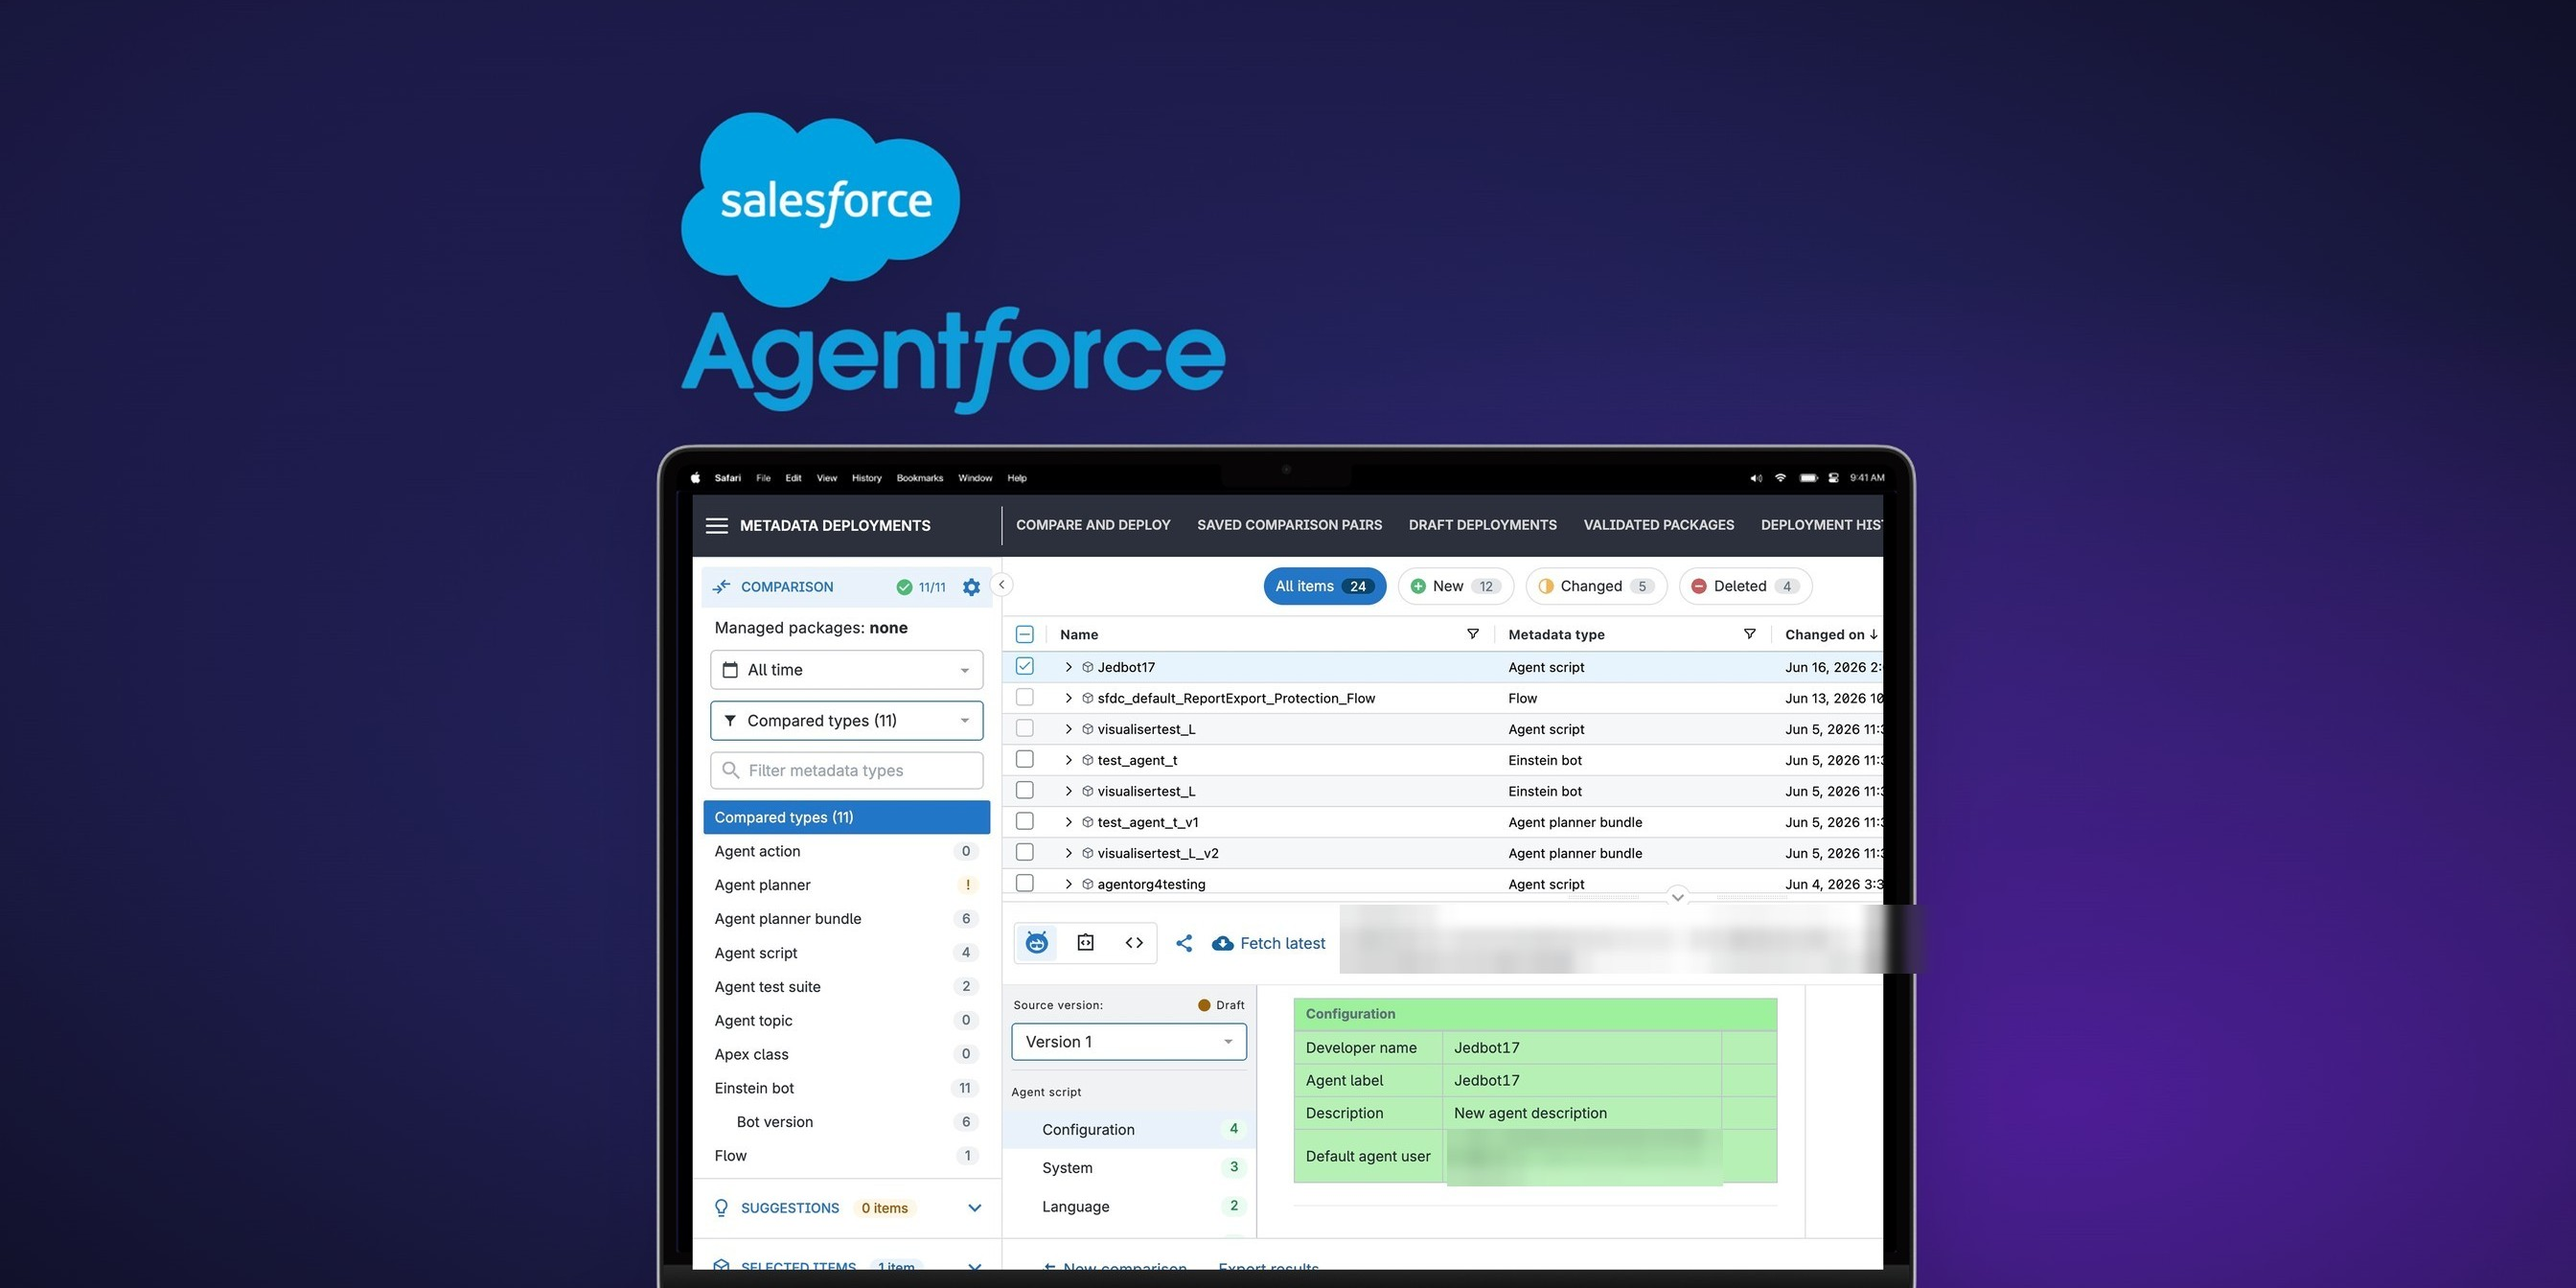
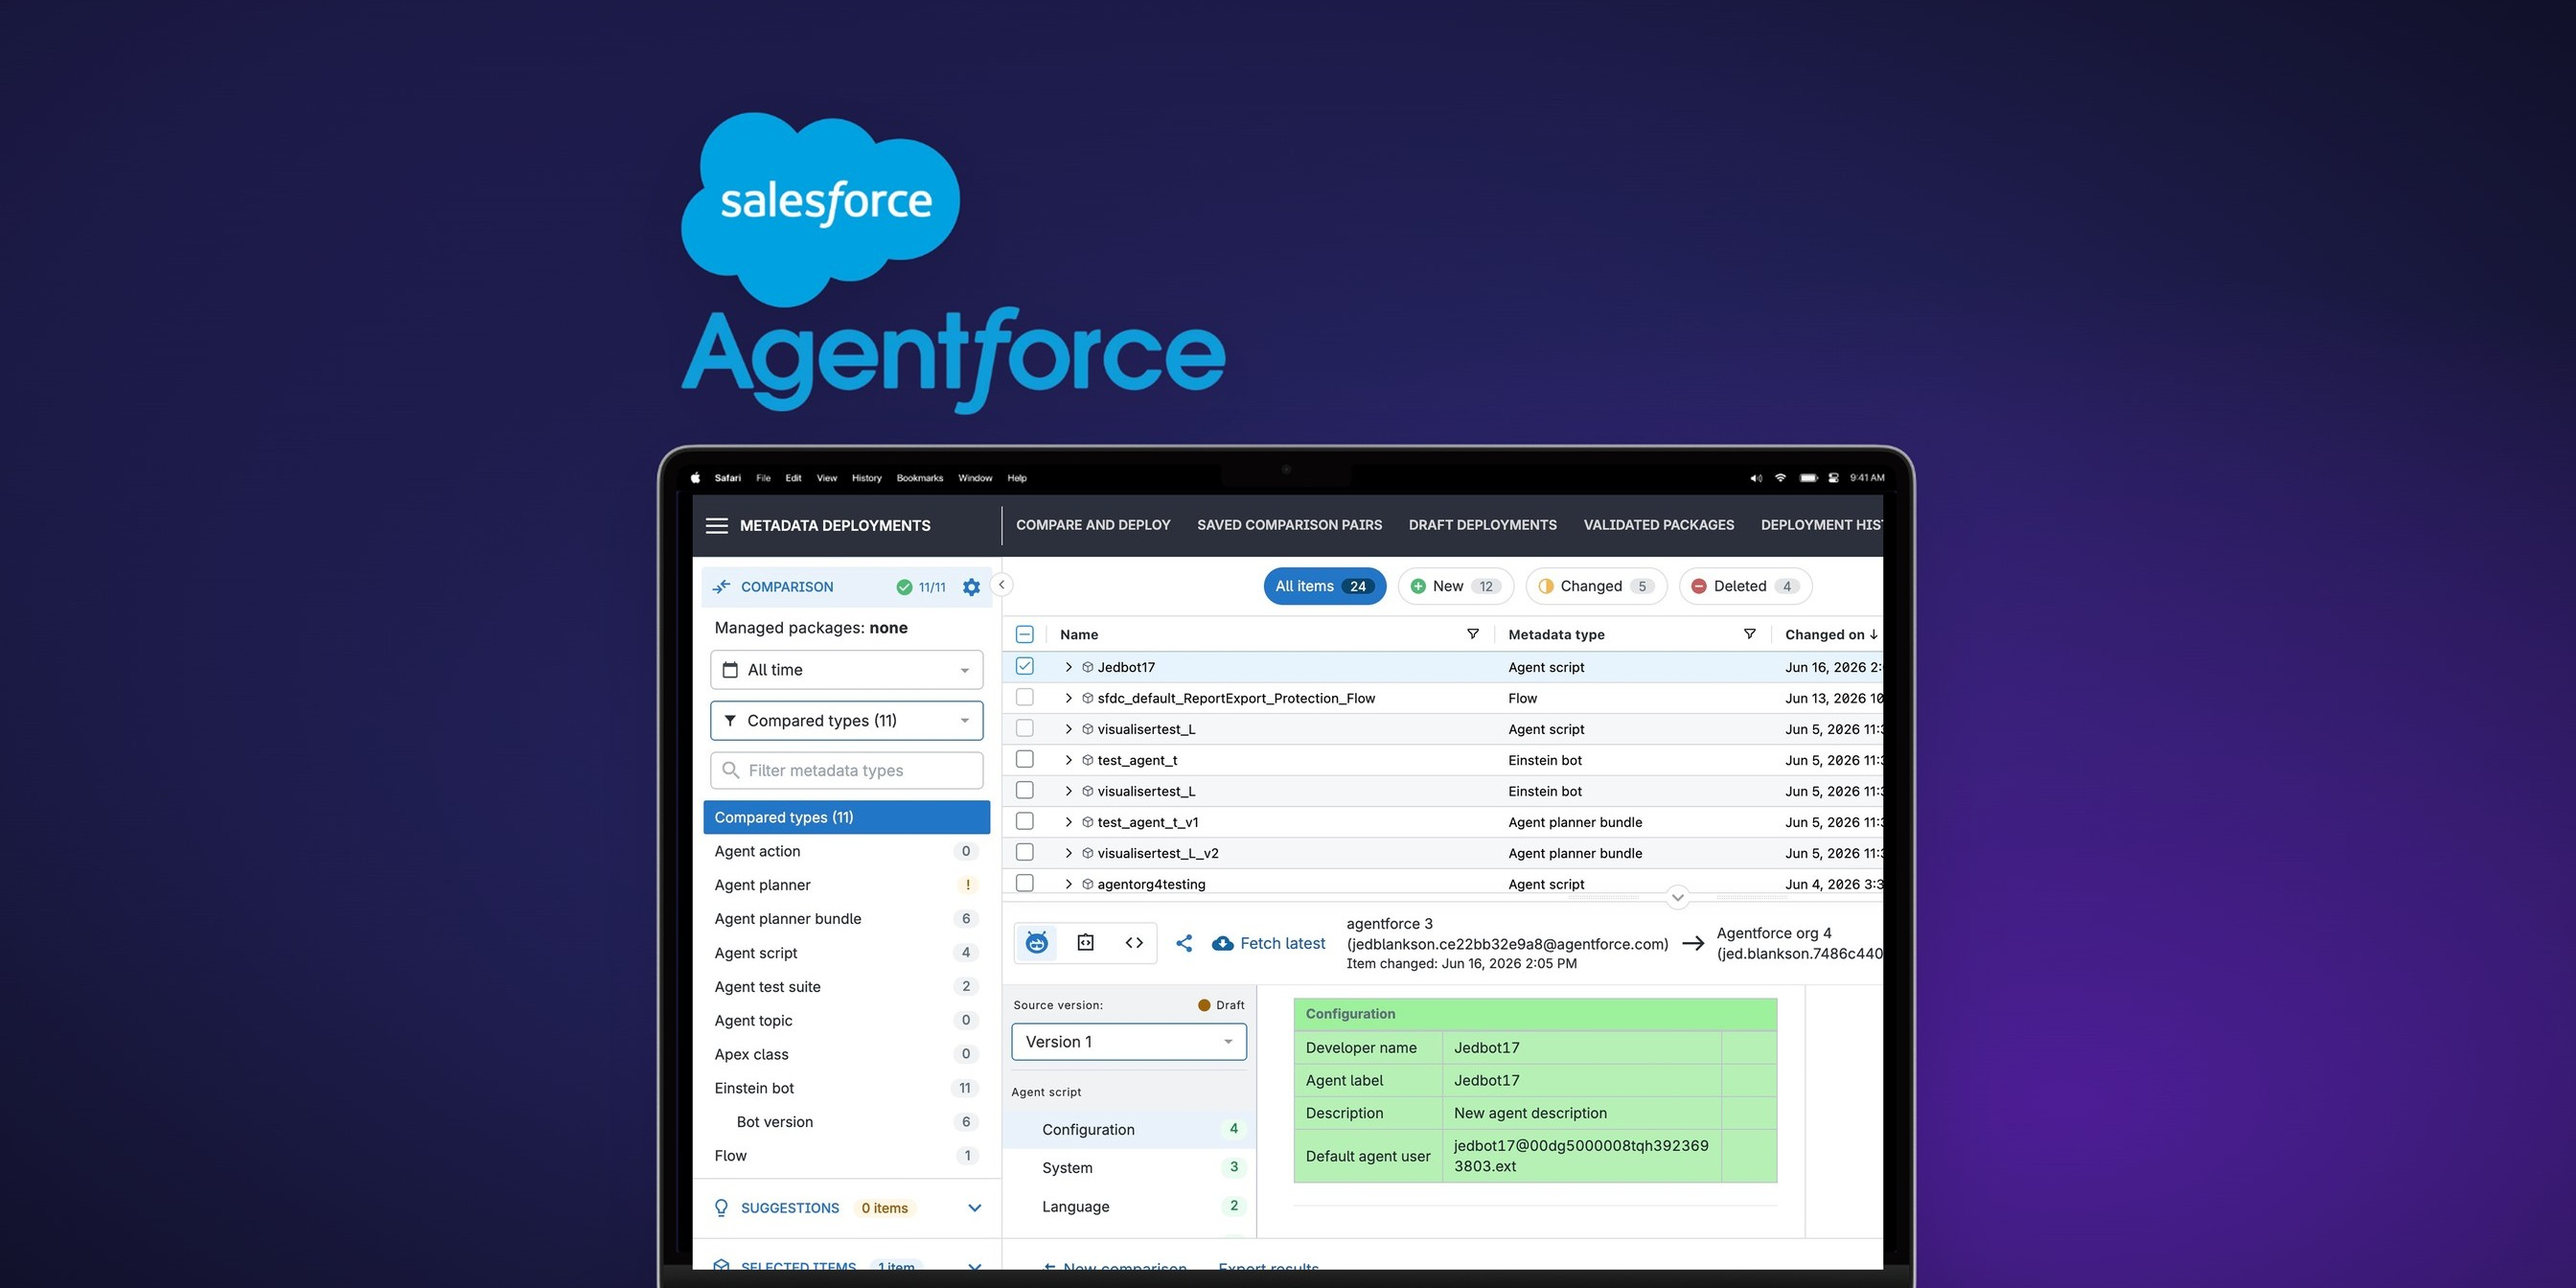
Gearset cover: unblur (own data) and show the whole mockup
- Restore the unblurred cover/card (Jed's own test ID/email, his call).
- Fix the hero aspectRatio string (a .replace was doubling the spaces and
  mangling the ratio, cropping the laptop bottom); normalise whitespace and
  set heroRatio to the image's exact ratio so the full mockup shows.

Changed region(s): [[0.5, 0.6875, 0.625, 0.7812], [0.6562, 0.6875, 0.75, 0.7812], [0.5625, 0.875, 0.6562, 0.9375]]

diff --git a/app/work/[slug]/page.tsx b/app/work/[slug]/page.tsx
@@ -387,7 +387,7 @@ const caseStudies: Record<string, CaseStudy> = {
     heroColor: "#0f1117",
     heroTextLight: true,
     heroImage: "/projects/ai-workflows/cover.jpg",
-    heroRatio: "16 / 9",
+    heroRatio: "84 / 47",
     images: [],
   },
   "beauhurst-integrations": {
@@ -622,7 +622,7 @@ export default async function CaseStudy({ params }: { params: Promise<{ slug: st
         {study.heroImage && (
           <div className="bg-[#f4f4f4]">
             <div className="max-w-5xl mx-auto px-6 md:px-12 py-12 md:py-16">
-              <div className="relative w-full rounded-2xl overflow-hidden ring-1 ring-black/10 shadow-[0_2px_8px_rgba(0,0,0,0.04),0_12px_40px_rgba(0,0,0,0.08)]" style={{ aspectRatio: (study.heroRatio ?? "16 / 10").replace("/", " / ") }}>
+              <div className="relative w-full rounded-2xl overflow-hidden ring-1 ring-black/10 shadow-[0_2px_8px_rgba(0,0,0,0.04),0_12px_40px_rgba(0,0,0,0.08)]" style={{ aspectRatio: (study.heroRatio ?? "16 / 10").replace(/\s*\/\s*/g, " / ") }}>
                 <Image
                   src={study.heroImage}
                   alt={`${study.company} ${study.title}`}
